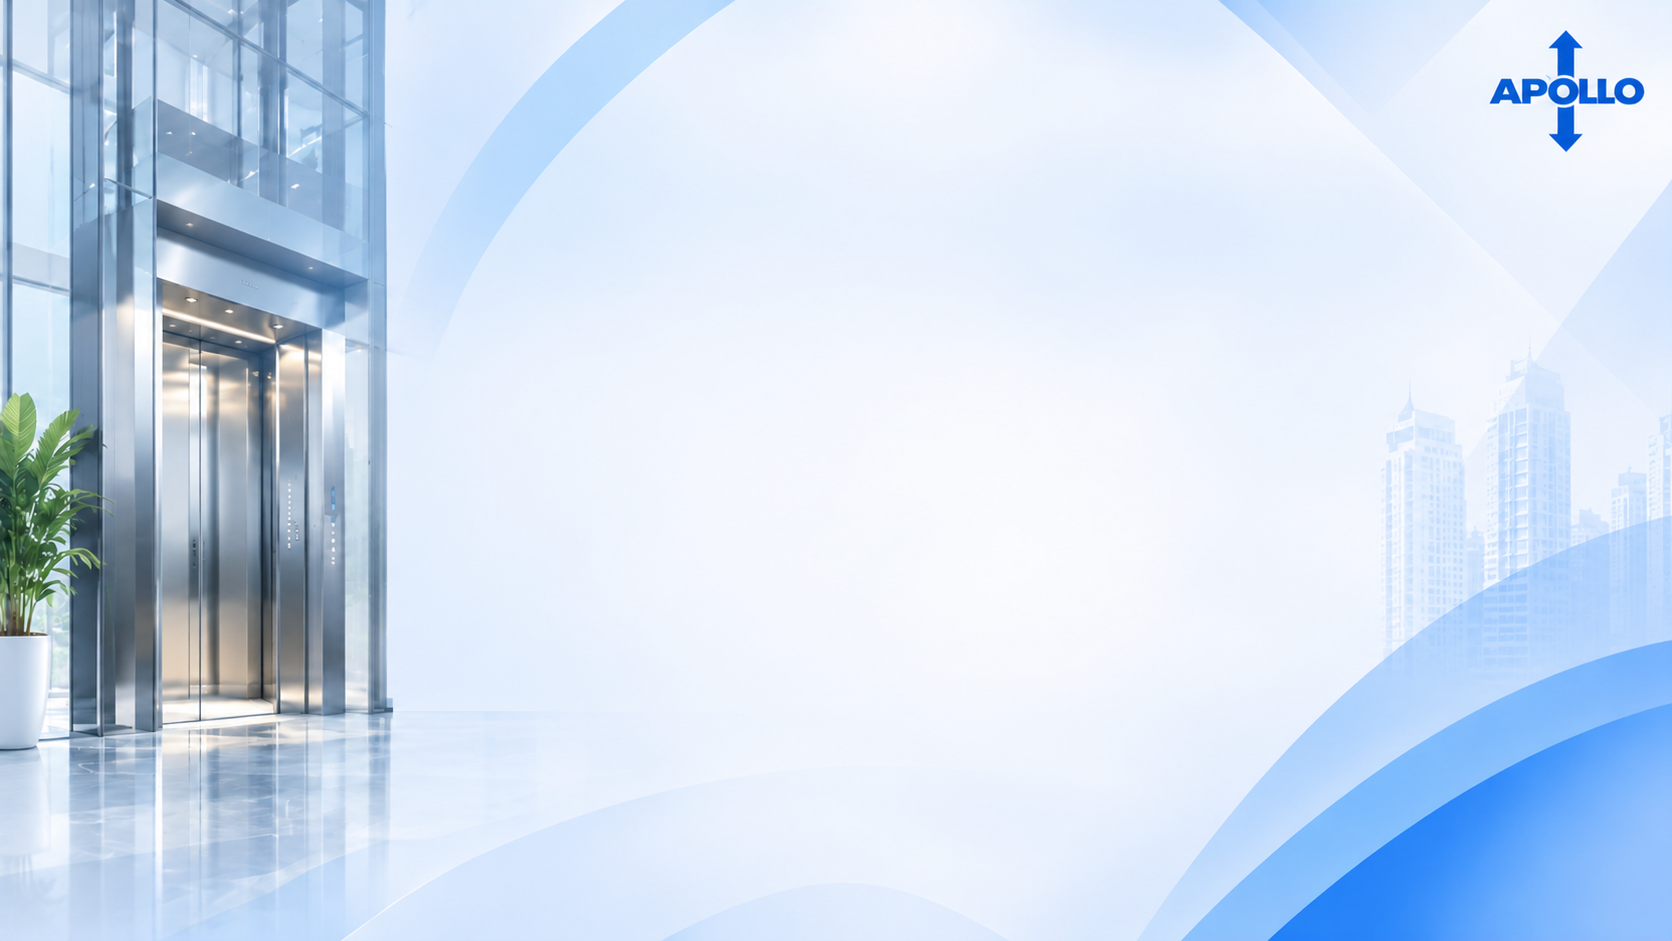
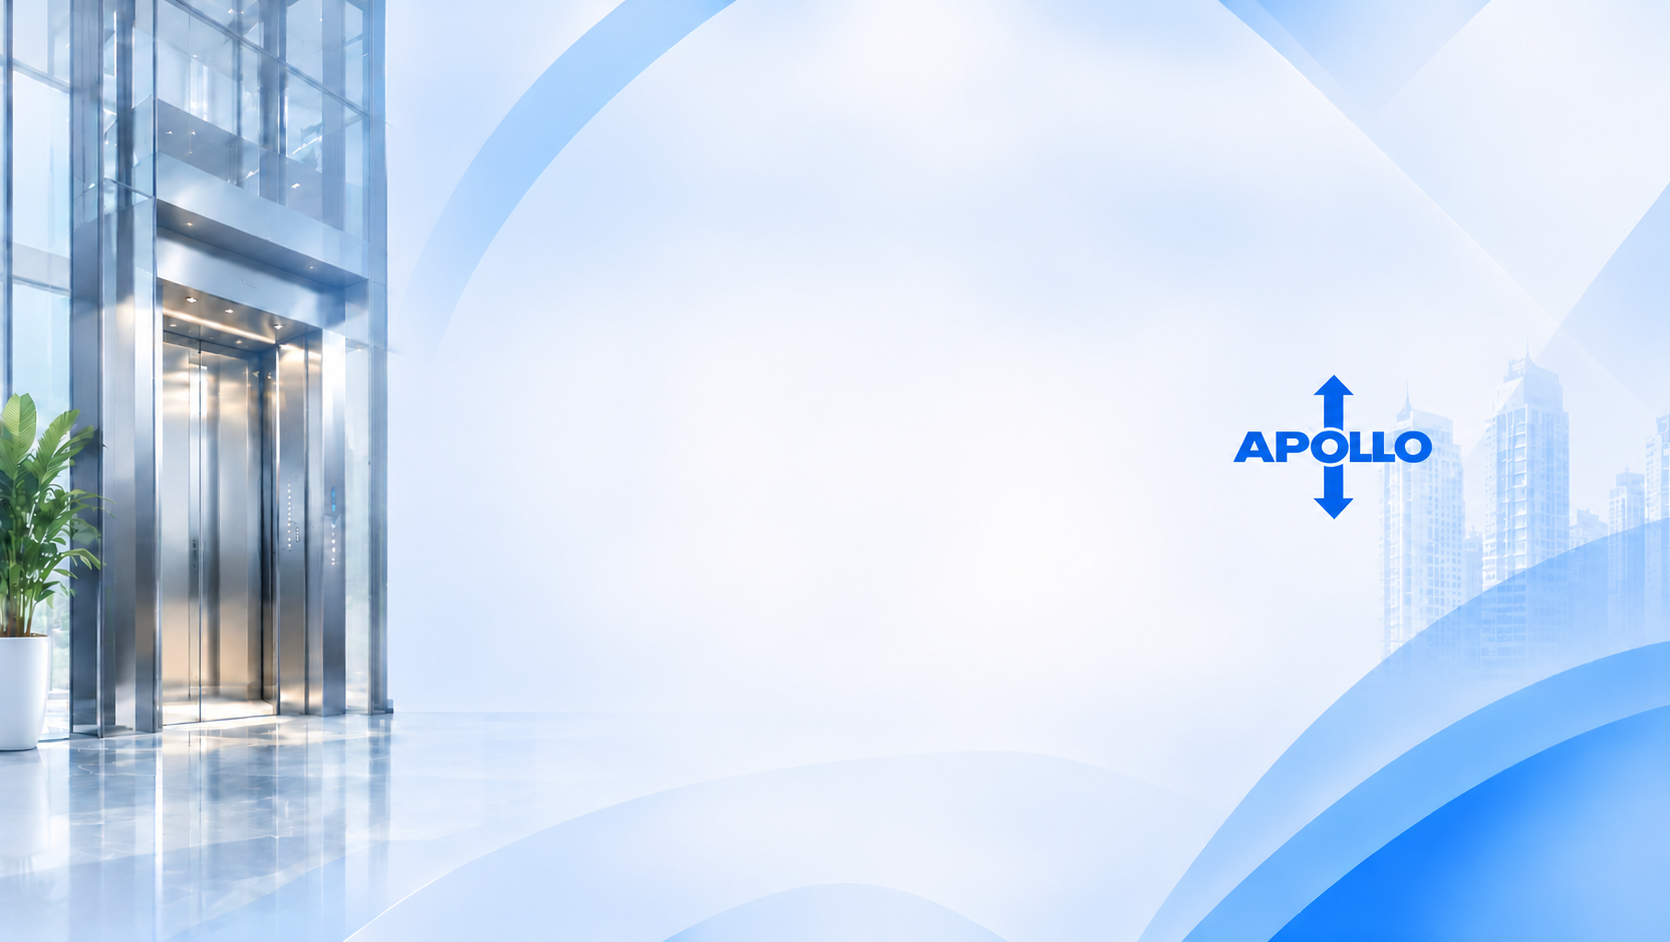
CSS changes in contact page

diff --git a/apollo-frontend/src/pages/ContactPage.jsx b/apollo-frontend/src/pages/ContactPage.jsx
@@ -168,11 +168,6 @@ export default function ContactPage() {
         </form>
 
         <div className="cp-intro">
-          <div className="cp-intro__photo">
-            <img src="/liftImages/passenger-elevator.jpg" alt="Apollo Elevator passenger lift" loading="lazy" />
-          </div>
-          <AppLogo size={44} />
-          <h2 className="cp-intro__heading">Contact details</h2>
           <div className="cp-mapCard">
             <div className="cp-mapCard__header">
               <div>

diff --git a/apollo-frontend/src/pages/ContactPage.css b/apollo-frontend/src/pages/ContactPage.css
@@ -1,3 +1,5 @@
+@import url('https://fonts.googleapis.com/css2?family=Manrope:wght@400;500;600;700;800&display=swap');
+
 .cp-page {
   --ink: #101e2b;
   --ink-soft: #223247;
@@ -9,7 +11,7 @@
   --white: #ffffff;
   --error: #c0392b;
 
-  font-family: "IBM Plex Sans", "Segoe UI", system-ui, sans-serif;
+  font-family: "Manrope", "Segoe UI", system-ui, sans-serif;
   color: var(--ink);
   background: #eef2f7 url("/ContactPage_BG_Image.png") center / cover fixed no-repeat;
   min-height: 100vh;
